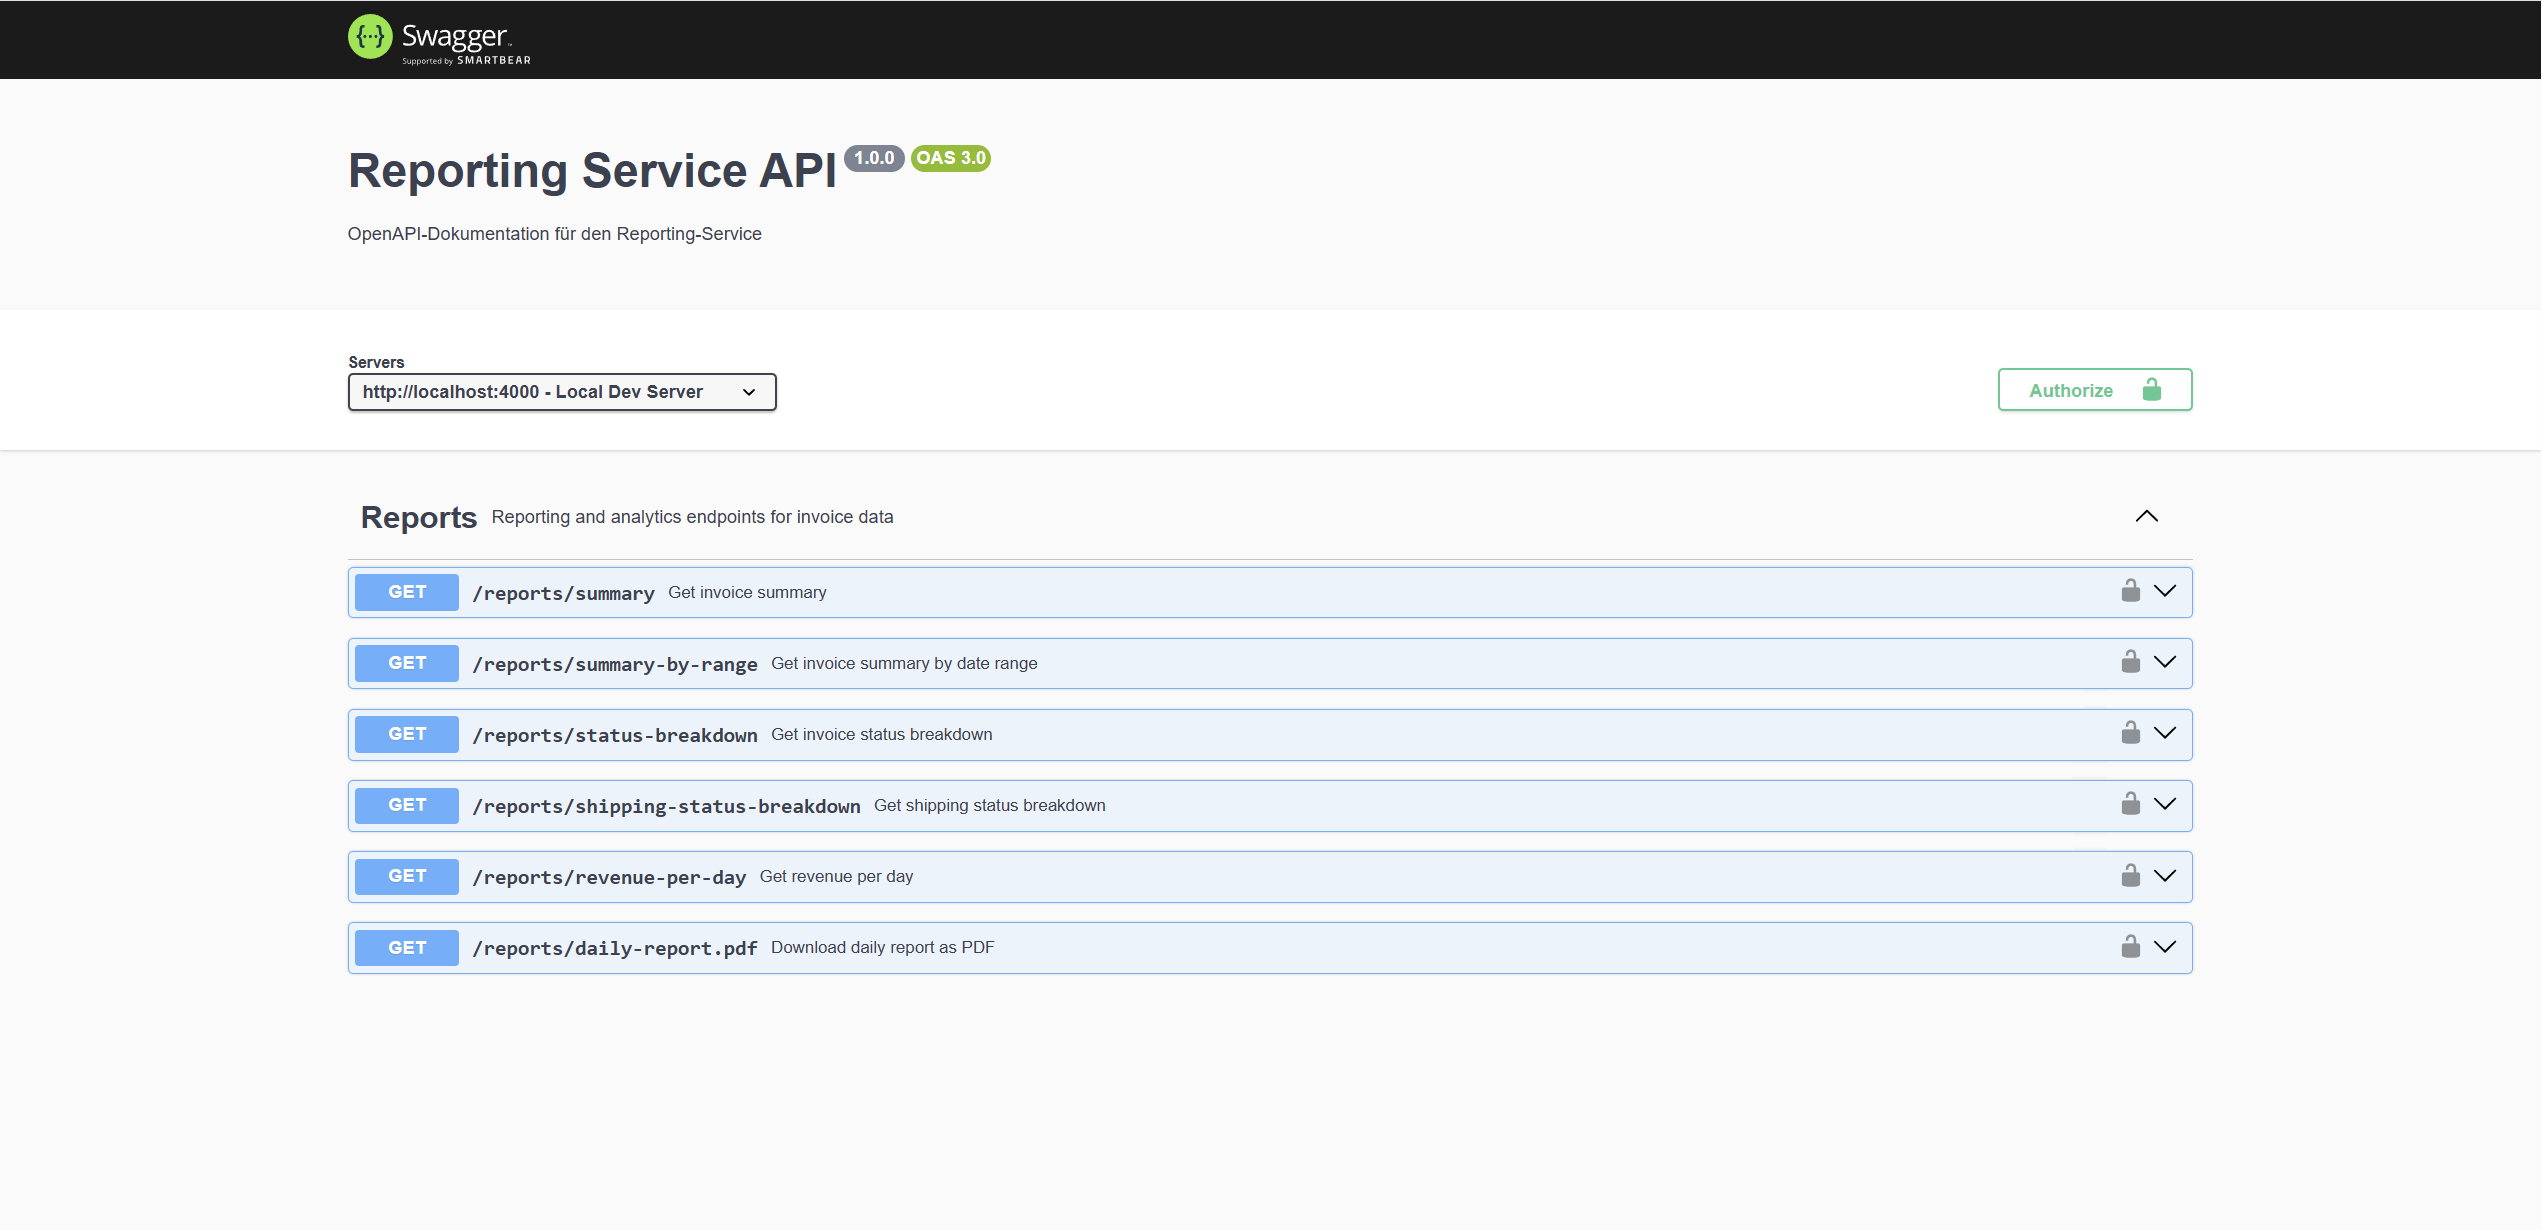
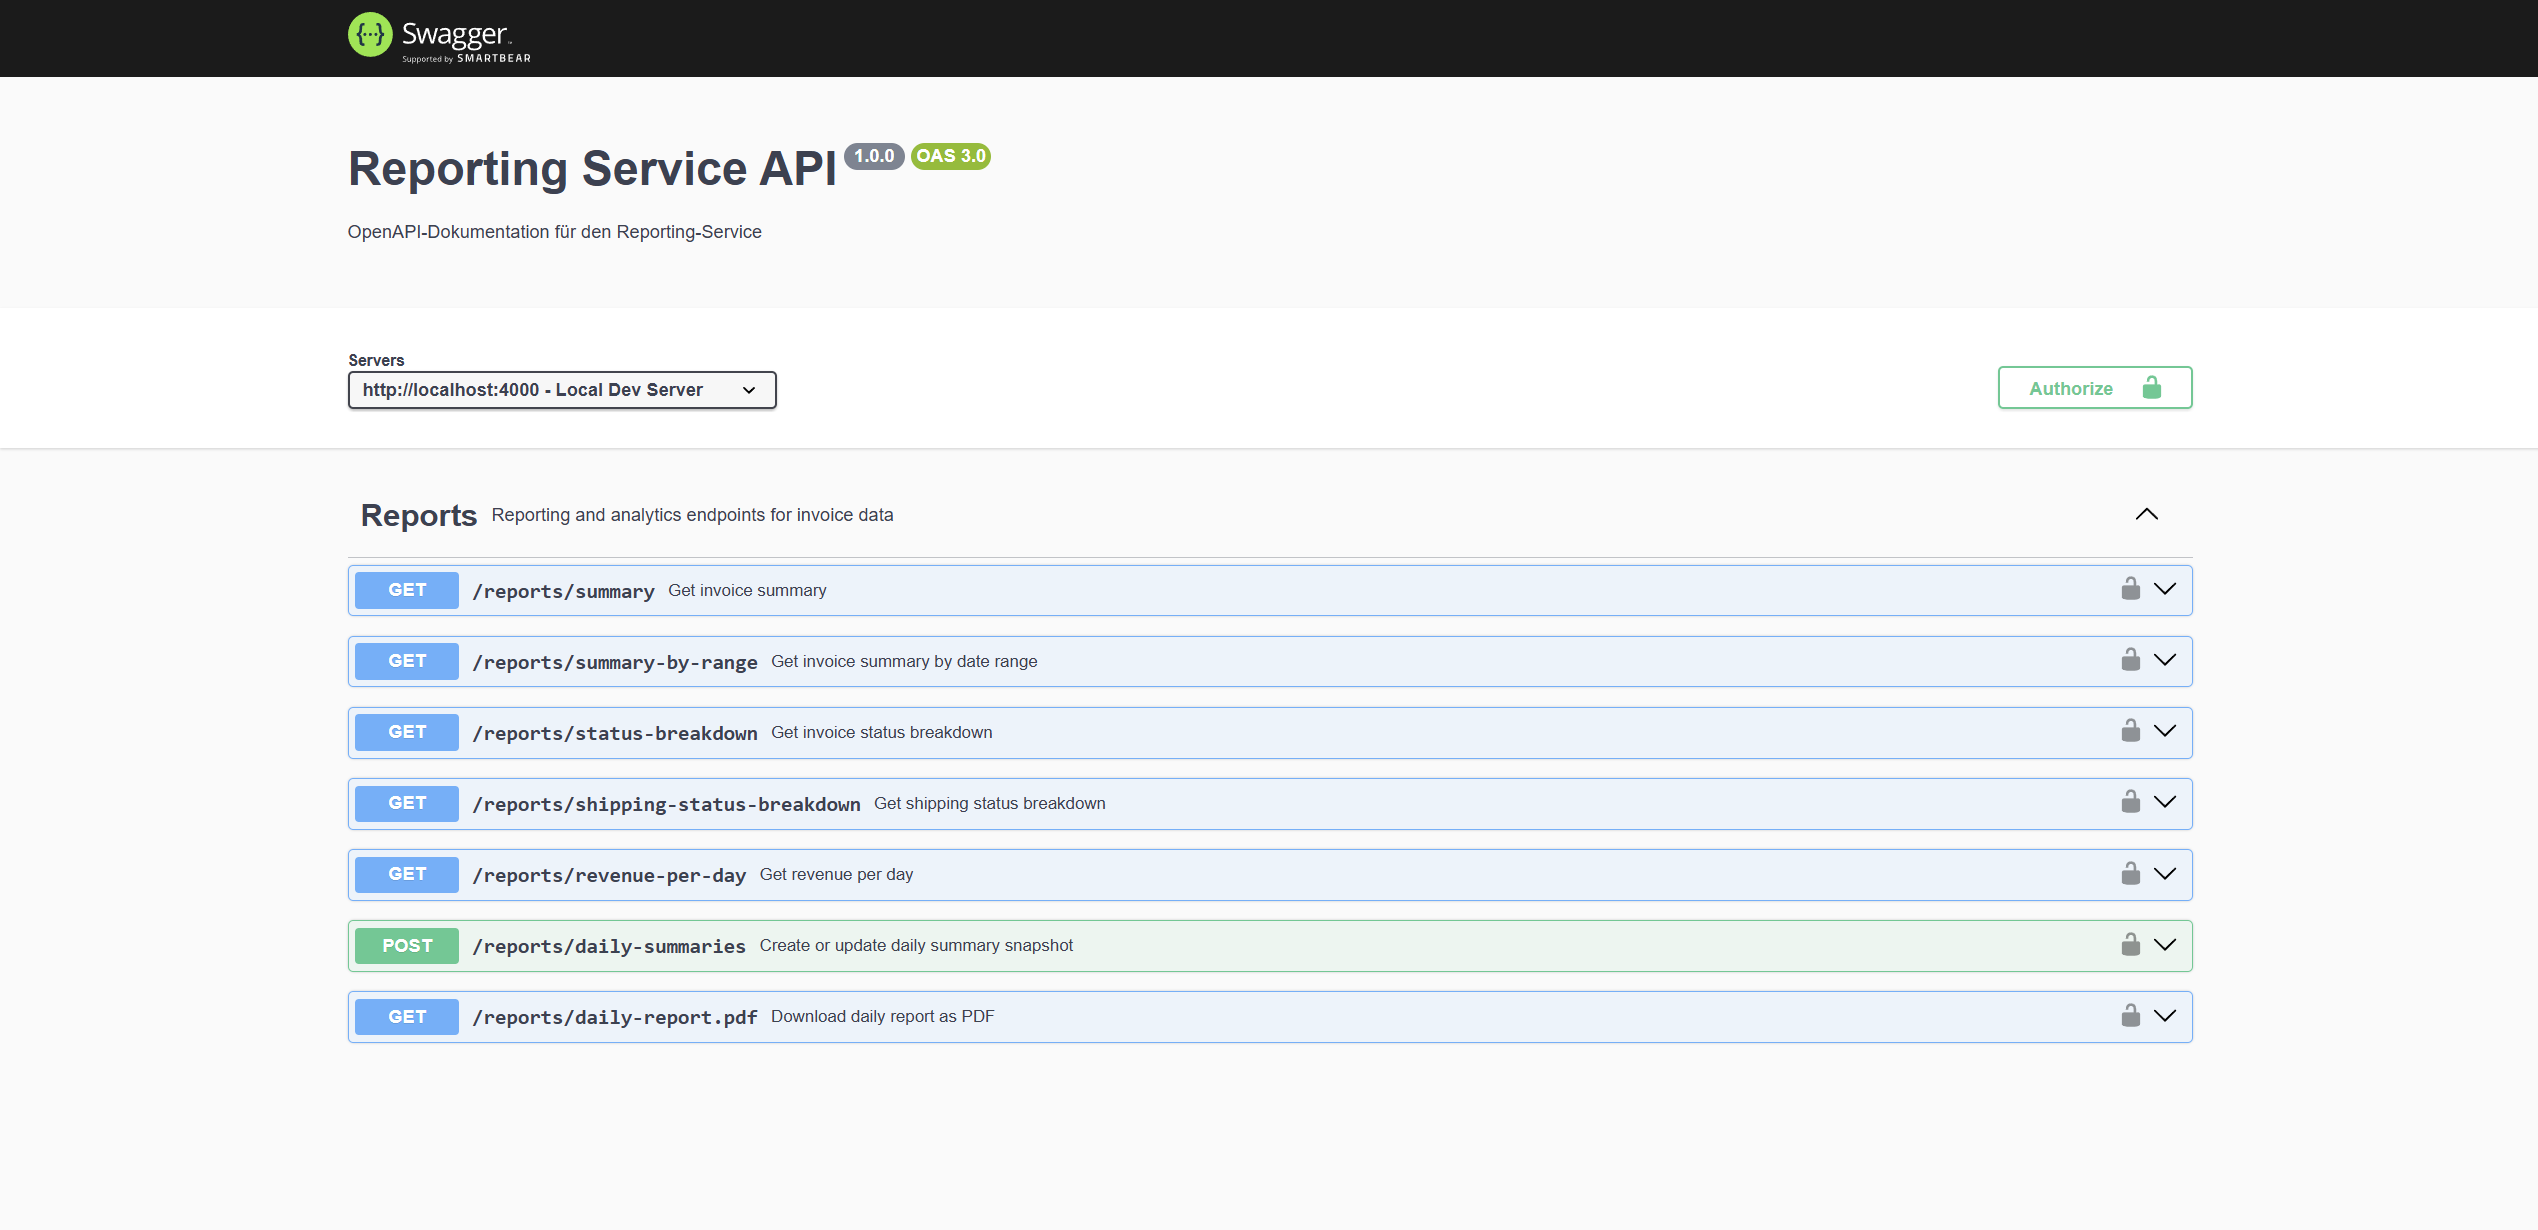
Add manual daily summary generation

diff --git a/tests/report.api.test.js b/tests/report.api.test.js
@@ -3,6 +3,7 @@ const mongoose = require("mongoose");
 const app = require("../index");
 const jwt = require("jsonwebtoken");
 const Invoice = require("../models/invoice");
+const DailyReport = require("../models/dailyReport");
 
 const TEST_JWT_SECRET = process.env.JWT_SECRET || "test-reporting-jwt-secret";
 
@@ -20,6 +21,11 @@ function createTestToken(role = "report_reader") {
 describe("Reporting Service API", () => {
   beforeEach(async () => {
     await Invoice.deleteMany({});
+    await DailyReport.deleteMany({});
+  });
+
+  afterAll(async () => {
+    await mongoose.connection.close();
   });
 
   afterAll(async () => {
@@ -521,4 +527,48 @@ describe("Reporting Service API", () => {
       ]);
     });
   });
+  describe("Daily summary snapshots", () => {
+  it("POST /reports/daily-summaries creates or updates the daily summary snapshot", async () => {
+    await Invoice.create([
+      {
+        customerName: "Open Invoice",
+        amount: 100,
+        status: "OPEN",
+      },
+      {
+        customerName: "Paid Invoice",
+        amount: 250,
+        status: "PAID",
+      },
+      {
+        customerName: "Cancelled Invoice",
+        amount: 50,
+        status: "CANCELLED",
+      },
+    ]);
+
+    const res = await request(app)
+      .post("/reports/daily-summaries")
+      .set("Authorization", `Bearer ${createTestToken()}`);
+
+    expect(res.status).toBe(200);
+    expect(res.body).toEqual({
+      date: expect.any(String),
+      totalInvoices: 3,
+      totalRevenue: 400,
+      openInvoices: 1,
+      paidInvoices: 1,
+      cancelledInvoices: 1,
+    });
+
+    const savedReport = await DailyReport.findOne({ date: res.body.date });
+
+    expect(savedReport).not.toBeNull();
+    expect(savedReport.totalInvoices).toBe(3);
+    expect(savedReport.totalRevenue).toBe(400);
+    expect(savedReport.openInvoices).toBe(1);
+    expect(savedReport.paidInvoices).toBe(1);
+    expect(savedReport.cancelledInvoices).toBe(1);
+  });
+});
 });

diff --git a/controllers/reportController.js b/controllers/reportController.js
@@ -4,7 +4,7 @@ const { generateDailyReportPdf } = require("../services/pdfService");
 const cacheService = require("../services/cacheService");
 const INVOICE_STATUSES = ["OPEN", "PAID", "CANCELLED"];
 const SHIPPING_STATUSES = ["NOT_SHIPPED", "SHIPPED", "IN_TRANSIT", "DELIVERED"];
-// Aggregation für Summary 
+// Aggregation für Summary
 
 async function calculateSummary() {
   const result = await Invoice.aggregate([
@@ -60,7 +60,9 @@ function isValidDateString(value) {
 
   const date = new Date(`${value}T00:00:00.000Z`);
 
-  return !Number.isNaN(date.getTime()) && date.toISOString().slice(0, 10) === value;
+  return (
+    !Number.isNaN(date.getTime()) && date.toISOString().slice(0, 10) === value
+  );
 }
 
 async function calculateSummaryByRange(fromDate, toDateExclusive) {
@@ -136,7 +138,7 @@ async function calculateStatusBreakdown() {
         count: row.count || 0,
         totalAmount: row.totalAmount || 0,
       },
-    ])
+    ]),
   );
 
   const totalInvoices = result.reduce((sum, row) => sum + (row.count || 0), 0);
@@ -182,7 +184,7 @@ async function calculateShippingStatusBreakdown() {
         count: row.count || 0,
         totalAmount: row.totalAmount || 0,
       },
-    ])
+    ]),
   );
 
   const totalInvoices = result.reduce((sum, row) => sum + (row.count || 0), 0);
@@ -289,7 +291,7 @@ exports.getRevenuePerDay = async (req, res) => {
     } catch (err) {
       console.warn(
         "Konnte Revenue-per-Day nicht in Cache speichern:",
-        err.message
+        err.message,
       );
     }
 
@@ -362,26 +364,41 @@ exports.getShippingStatusBreakdown = async (req, res) => {
 // Optionaler Export, falls Summary an anderen Stellen genutzt wird
 exports.calculateSummary = calculateSummary;
 
-// Diese Funktion wird vom Cron-Job genutzt
-exports.saveDailySummary = async () => {
+// Diese Funktion wird vom Cron-Job und vom manuellen Endpoint genutzt
+async function saveDailySummary() {
   const summary = await calculateSummary();
 
   const today = new Date().toISOString().slice(0, 10); // "YYYY-MM-DD"
 
+  const dailySummary = {
+    date: today,
+    totalInvoices: summary.totalInvoices,
+    totalRevenue: summary.totalRevenue,
+    openInvoices: summary.openInvoices,
+    paidInvoices: summary.paidInvoices,
+    cancelledInvoices: summary.cancelledInvoices,
+  };
+
   await DailyReport.findOneAndUpdate(
     { date: today },
-    {
-      date: today,
-      totalInvoices: summary.totalInvoices,
-      totalRevenue: summary.totalRevenue,
-      openInvoices: summary.openInvoices,
-      paidInvoices: summary.paidInvoices,
-      cancelledInvoices: summary.cancelledInvoices,
-    },
+    dailySummary,
     { upsert: true }
   );
 
-  return summary;
+  return dailySummary;
+}
+
+exports.saveDailySummary = saveDailySummary;
+
+exports.createDailySummary = async (req, res) => {
+  try {
+    const dailySummary = await saveDailySummary();
+
+    res.json(dailySummary);
+  } catch (err) {
+    console.error("Fehler bei createDailySummary:", err);
+    res.status(500).json({ message: "Interner Serverfehler" });
+  }
 };
 
 // PDF-Report für den aktuellen Tag

diff --git a/routes/reportRoutes.js b/routes/reportRoutes.js
@@ -132,6 +132,26 @@ router.get("/revenue-per-day", reportController.getRevenuePerDay);
 
 /**
  * @swagger
+ * /reports/daily-summaries:
+ *   post:
+ *     summary: Create or update daily summary snapshot
+ *     description: Manually calculates the current invoice summary and stores it as the daily summary snapshot for today.
+ *     tags: [Reports]
+ *     security:
+ *       - ApiKeyAuth: []
+ *       - BearerAuth: []
+ *     responses:
+ *       200:
+ *         description: Daily summary snapshot created or updated successfully
+ *       401:
+ *         description: Missing or invalid authentication
+ *       500:
+ *         description: Internal server error
+ */
+router.post("/daily-summaries", reportController.createDailySummary);
+
+/**
+ * @swagger
  * /reports/daily-report.pdf:
  *   get:
  *     summary: Download daily report as PDF

diff --git a/README.md b/README.md
@@ -15,6 +15,16 @@ A backend microservice for invoice reporting, revenue analytics, PDF report gene
 
 The service is designed as a reporting component that could be part of a larger invoice, ERP or back-office system.
 
+## Live API Documentation
+
+Production Swagger UI:
+
+```text
+https://reporting-service-api.onrender.com/api-docs
+```
+
+Note: The service runs on Render's free plan, so the first request after inactivity may take a few seconds.
+
 ---
 
 ## Project Goal
@@ -72,6 +82,7 @@ Current features:
 * Shipping status breakdown reporting
 * Revenue grouped by day
 * Daily PDF report generation
+* Manual daily summary snapshot generation
 * API-Key protection for private endpoints
 * JWT authentication for reporting routes
 * Role-based access control for reports
@@ -109,6 +120,7 @@ Planned improvements:
 | GET    | `/reports/status-breakdown`                               | Invoice status breakdown by count, amount and percentage  | API-Key + JWT + role |
 | GET    | `/reports/shipping-status-breakdown`                      | Shipping status breakdown by count, amount and percentage | API-Key + JWT + role |
 | GET    | `/reports/revenue-per-day`                                | Revenue grouped by day                                    | API-Key + JWT + role |
+| POST   | `/reports/daily-summaries`                                | Create or update today's daily summary snapshot           | API-Key + JWT + role |
 | GET    | `/reports/daily-report.pdf`                               | Generate PDF report                                       | API-Key + JWT + role |
 
 Reporting endpoints are limited to users with one of the following roles:
@@ -235,6 +247,18 @@ admin
   }
 ]
 ```
+
+### Daily summary snapshot
+
+```json
+{
+  "date": "2026-06-17",
+  "totalInvoices": 12,
+  "totalRevenue": 2450,
+  "openInvoices": 4,
+  "paidInvoices": 7,
+  "cancelledInvoices": 1
+}
 
 ### Readiness response
 
@@ -495,6 +519,7 @@ The tests cover:
 * Invoice status breakdown reporting
 * Shipping status breakdown reporting
 * Revenue grouped by day
+* Daily summary snapshot generation
 * PDF report generation
 * Monitoring endpoints
 * Readiness endpoint behavior
@@ -624,6 +649,8 @@ Current reporting rules:
 * Health checks and readiness checks are public operational endpoints.
 * Date range summaries only include invoices created within the requested date range.
 * Date range requests require `from` and `to` query parameters in `YYYY-MM-DD` format.
+* Daily summary snapshots are generated from current invoice summary data.
+* Manual daily summary generation creates or updates the snapshot for the current day.
 
 
 ---
@@ -632,7 +659,7 @@ Current reporting rules:
 
 The project separates operational concerns from reporting concerns.
 
-Reporting endpoints focus on business data such as invoice totals, revenue grouped by day and PDF report generation.
+Reporting endpoints focus on business data such as invoice totals, invoice status distribution, shipping status distribution, revenue grouped by day, daily summary snapshots and PDF report generation.
 
 Operational endpoints focus on runtime behavior such as process health, dependency readiness and metrics.
 
@@ -669,6 +696,7 @@ Implemented:
 * Docker build validation in CI
 * Live deployment on Render
 * MongoDB Atlas production database connection
+* Manual daily summary snapshot generation
 
 
 Current focus:
@@ -695,26 +723,27 @@ Completed:
 6. Shipping status breakdown reporting
 7. Revenue-per-day reporting
 8. PDF report generation
-9. API-Key protection
-10. JWT authentication
-11. Role-based report access
-12. Optional Redis caching
-13. Swagger / OpenAPI documentation
-14. Automated API tests
-15. Docker support
-16. Docker Compose setup
-17. GitHub Actions CI workflow
-18. Readiness endpoint
-19. Graceful shutdown handling
-20. Startup configuration validation
-21. Render deployment
-22. MongoDB Atlas production database connection
+9. Manual daily summary snapshot generation
+10. API-Key protection
+11. JWT authentication
+12. Role-based report access
+13. Optional Redis caching
+14. Swagger / OpenAPI documentation
+15. Automated API tests
+16. Docker support
+17. Docker Compose setup
+18. GitHub Actions CI workflow
+19. Readiness endpoint
+20. Graceful shutdown handling
+21. Startup configuration validation
+22. Render deployment
+23. MongoDB Atlas production database connection
 
 Next possible milestones:
 
-23. Structured logging improvements
-24. Centralized error handling
-25. Further production hardening
+24. Structured logging improvements
+25. Centralized error handling
+26. Further production hardening
 
 
 ---